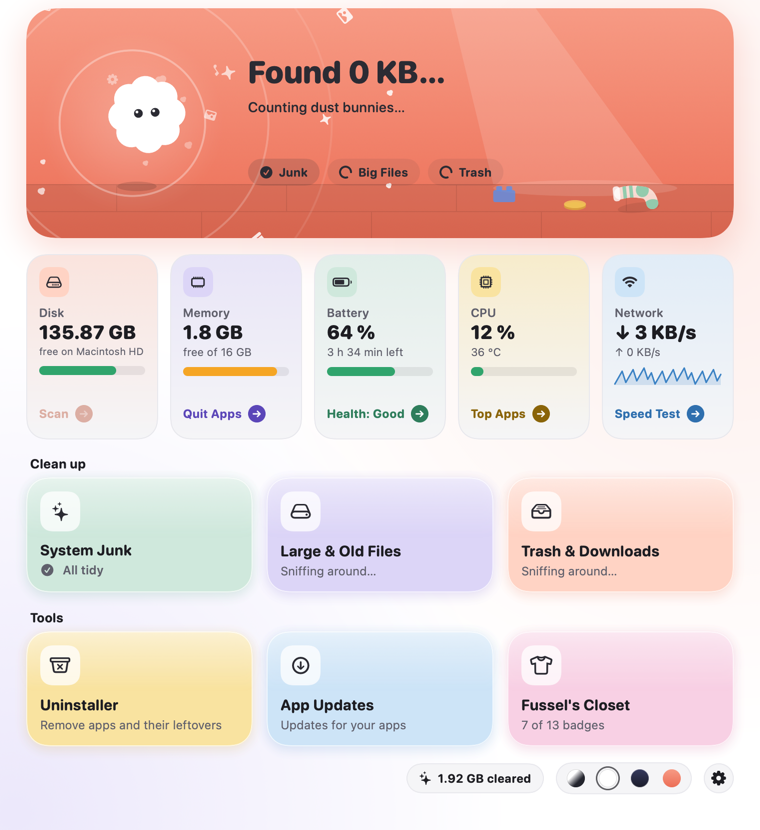
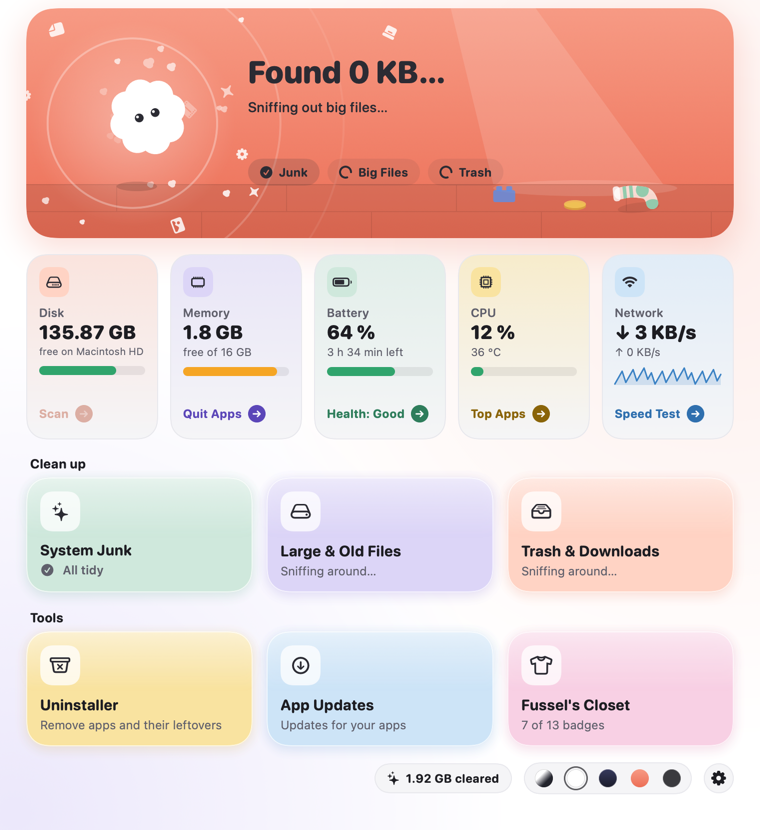
Fussel 0.8.5: Graphite style, screenshots with all four styles

diff --git a/release-notes/0.8.5.md b/release-notes/0.8.5.md
@@ -1,0 +1,76 @@
+<p align="center">
+  <img src="https://github.com/Dshamil/fussel/blob/main/docs/logo.png?raw=true" width="180" alt="Fussel app icon">
+</p>
+
+<h1 align="center">Fussel 0.8.5 Beta</h1>
+
+<p align="center"><b>A small, friendly Mac cleaner.</b><br>Fussel finds the fluff on your Mac and moves it to the Trash.</p>
+
+<p align="center">
+  <img src="https://github.com/Dshamil/fussel/blob/main/docs/screenshots/styles.png?raw=true" alt="Fussel in White, Dark, Coral and Graphite style">
+</p>
+
+## New in 0.8.5
+
+- **A new style, Graphite:** one calm dark gray from edge to edge, with no gradients and hardly any color. Cards and tiles stay gray, buttons are light gray, and the bars only turn red when your disk, memory or battery gets tight. Fussel and the little things in his world keep their colors. Pick it with the fifth dot at the bottom right or in Settings
+
+## New in 0.8.4
+
+- **A clearer main screen:** the cards sit in two groups, Clean up and Tools, and every tile has a clear action, including battery health and the busiest apps
+- **Lighter on your battery:** Fussel floats at a calm 30 frames per second and only speeds up for quick moves. With the window open he uses about a quarter less CPU
+
+<p align="center">
+  <img src="https://github.com/Dshamil/fussel/blob/main/docs/icons-0.8.png?raw=true" width="640" alt="Fussel's app icons">
+</p>
+
+## What's inside
+
+- **One-click scan** for system junk (caches, logs, Xcode build data), large and old files, the Trash and old downloads
+- **Uninstaller** that removes apps together with their support files, caches and preferences
+- **Your Mac at a glance:** free disk space, memory, battery, CPU load and temperature, and live network speed with a built-in speed test
+- **Free up memory** by quitting the hungriest apps, right from the memory tile
+- **Four styles:** White, Dark, Coral and Graphite, or follow the system automatically
+- **Fussel himself:** blinks, follows your pointer, does a flip when you poke him, slurps up files while scanning and celebrates with confetti
+- **A playful tutorial** on first launch (right-click the menu bar icon › Show Tutorial to see it again)
+- **Undo, history, moods and a weekly reminder** so Fussel feels like a little companion
+- **Lives in your menu bar:** no Dock icon. Click the little fluff next to the clock to open Fussel, right-click for a quick scan, the tutorial, settings or quit
+- **Starts with your Mac** and quietly waits in the background (turn it off in Settings)
+
+<p align="center">
+  <img src="https://github.com/Dshamil/fussel/blob/main/docs/screenshots/scan.png?raw=true" width="420" alt="Fussel scanning">
+  <img src="https://github.com/Dshamil/fussel/blob/main/docs/screenshots/tutorial.png?raw=true" width="420" alt="Fussel tutorial">
+</p>
+
+## Safety first
+
+Everything Fussel cleans goes to the **Trash first**, so you can always put it back. Only items that are already in the Trash are deleted for good, and Fussel asks before doing that. System files, Apple apps and your main folders are never touched.
+
+## Install
+
+**Recommended: the installer**
+
+1. Download **Fussel-Installer.pkg** below and open it.
+2. This beta isn't signed with an Apple Developer ID yet, so macOS blocks it at first. Open **System Settings › Privacy & Security**, scroll down and click **Open Anyway** next to the Fussel installer.
+3. Click through the installer. Fussel lands in your Applications folder and appears in the menu bar, next to the clock.
+4. Recommended: allow **Full Disk Access** in System Settings › Privacy & Security, so Fussel can reach the Trash and every hidden cache.
+
+**Or: drag and drop**
+
+Open **Fussel.dmg** and drag Fussel onto the Applications folder. Before the first launch, run this once in Terminal:
+```
+xattr -dr com.apple.quarantine /Applications/Fussel.app
+```
+
+Requires macOS 14 Sonoma or later. Runs natively on Apple Silicon and Intel.
+
+**Using Fussel:** click the fluff in the menu bar to open or close the window. Right-click it for Scan Mac, Show Tutorial, Settings and Quit. Closing the window keeps Fussel running in the background.
+
+## Beta notes
+
+- This is a beta: things may still wobble. Please report anything odd as an issue, screenshots help a lot.
+- The CPU temperature isn't available on every Mac; Fussel then shows Cool, Warm or Hot instead.
+- After an update, macOS may ask for Full Disk Access again.
+- Updating: just run the new installer. It quits the old Fussel and replaces it.
+- Undo only works while the items are still in the Trash.
+- Fussel checks for its own updates on GitHub. That works as soon as the GitHub page is public.
+- Changing the app icon needs Fussel to be installed with the installer (0.8.0 or newer).

diff --git a/README.md b/README.md
@@ -6,14 +6,14 @@
 
 <p align="center">A small, friendly Mac cleaner. Fussel finds the fluff on your Mac and moves it to the Trash.<br><i>Currently in beta.</i></p>
 
-<p align="center"><img src="docs/screenshots/styles.png" alt="Fussel in White, Dark and Coral style"></p>
+<p align="center"><img src="docs/screenshots/styles.png" alt="Fussel in White, Dark, Coral and Graphite style"></p>
 
 - **System Junk**: app caches, logs and Xcode build data
 - **Large & Old Files**: big files and things you haven't opened in ages
 - **Uninstaller**: remove apps together with their support files, caches and preferences
 - **Trash & Downloads**: empty the Trash and sweep out old downloads
 
-Plus live tiles for disk space, memory, battery, CPU and network, three styles (White, Dark, Coral),
+Plus live tiles for disk space, memory, battery, CPU and network, four styles (White, Dark, Coral, Graphite),
 a playful tutorial, and a menu bar helper for a quick clean of caches and logs.
 
 ## Safety first
